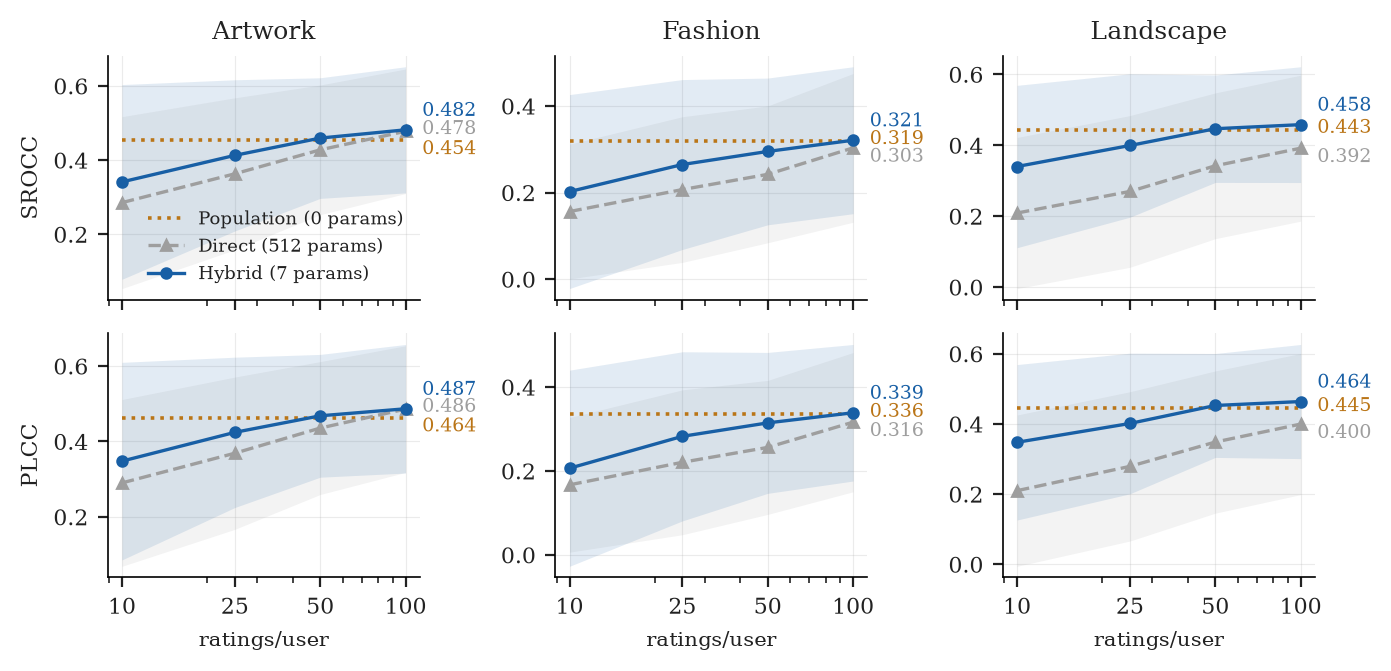
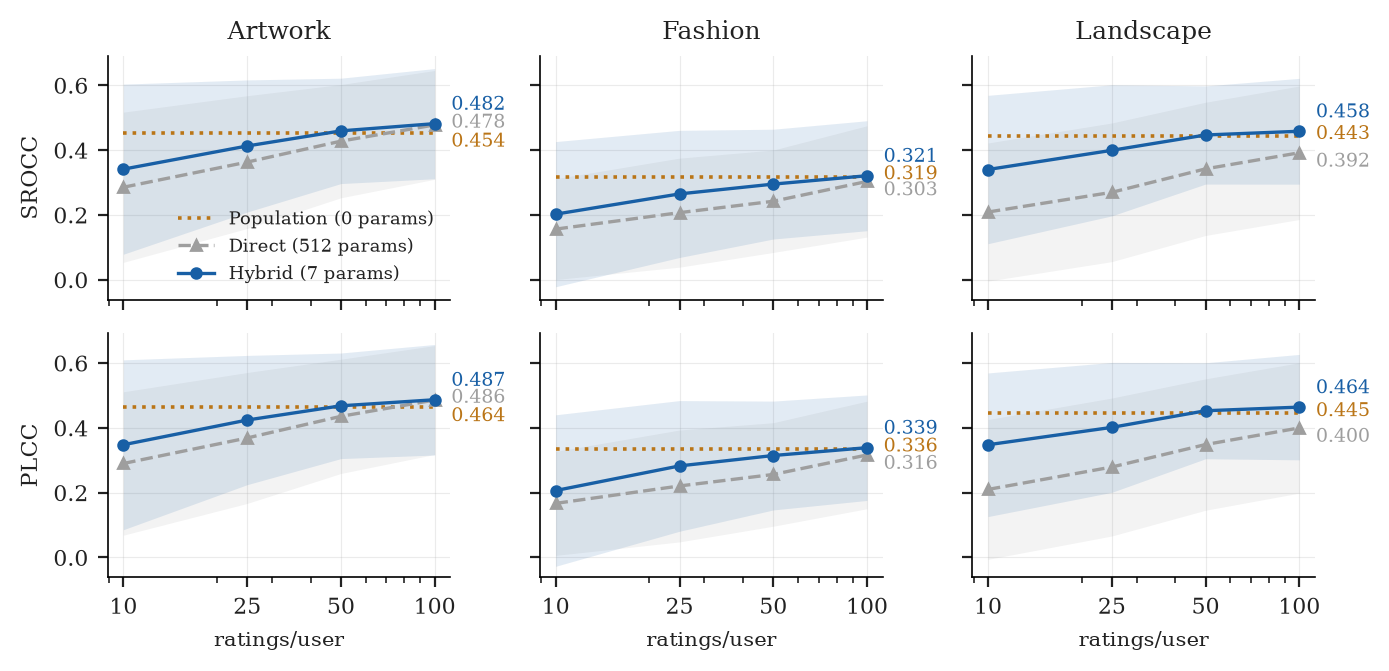
fix: read fine-tuned CLIP features after the projection, and align Fig. 2 axes
The frozen baseline reads features from CLIPModel.get_image_features(), which
is visual_projection(pooler_output) and is 512-dim. The fine-tuned variant was
built on CLIPVisionModel and read pooler_output directly, so it produced
768-dim features. The backbone comparison was therefore varying feature width
at the same time as fine-tuning, in the one condition where the paper's
conclusion flips, with no way to attribute the flip to either. Keep and
fine-tune the projection, and read features after it, so the two CLIP
conditions differ in fine-tuning alone.

This invalidates the existing clip_ftpf_overall_v4_fold*.npz features, which
have to be regenerated on a GPU before the backbone table is rerun.

Fig. 2's per-domain panels had free y-limits, which made fashion look closer
to the other two domains than it is; share the y axis across all six.

Also drops src/utils/tables.py, which nothing has imported since the
experiments started writing their own summary CSVs.

diff --git a/src/data/finetune_clip_perfold.py b/src/data/finetune_clip_perfold.py
@@ -5,6 +5,14 @@ Fine-tunes CLIP's vision tower to predict the population-mean target
 be used for personalized prediction. Run once per fold; produces
 clip_ftpf_{target}_v4_fold{k}.npz.
 
+*** features must come out of the same place as the frozen baseline ***
+extract_clip_features.py uses CLIPModel.get_image_features(), which is
+visual_projection(vision_model(px).pooler_output) and gives 512 dims. So the
+projection is kept and fine-tuned here too, and features are read after it.
+Reading pooler_output directly instead would give 768 dims, and then the
+backbone comparison would be varying the feature width at the same time as
+the fine-tuning, with no way to tell which one moved the result.
+
 Usage:
   python src/data/finetune_clip_perfold.py --fold 0 --target overall --v4 \
     --out clip_ftpf_overall_v4_fold0.npz --epochs 8 --batch_size 12
@@ -23,7 +31,7 @@ from transformers import CLIPImageProcessor
 
 from PIL import Image
 from torch.utils.data import Dataset
-from transformers import CLIPVisionModel
+from transformers import CLIPModel
 
 IMG_EXTS = {".jpg", ".jpeg", ".png", ".webp", ".bmp"}
 EMO9 = ["Like", "Beautiful", "Distasteful", "Impressed", "Intellectually",
@@ -61,16 +69,22 @@ class ImgDS(Dataset):
 
 
 class CLIPRegressor(nn.Module):
-    """CLIP Vision model with a linear head on top for regression."""
+    """CLIP vision tower + its projection, with a linear head for regression.
+
+    feat is taken after visual_projection, so it is the same 512-dim space
+    CLIPModel.get_image_features() returns and the frozen baseline uses.
+    """
     def __init__(self, out_dim):
         super().__init__()
-        self.vision = CLIPVisionModel.from_pretrained("openai/clip-vit-base-patch16")
-        h = self.vision.config.hidden_size
-        self.head = nn.Linear(h, out_dim)
+        clip = CLIPModel.from_pretrained("openai/clip-vit-base-patch16")
+        self.vision = clip.vision_model
+        self.visual_projection = clip.visual_projection      # 768 -> 512
+        self.feat_dim = clip.config.projection_dim           # 512
+        self.head = nn.Linear(self.feat_dim, out_dim)
 
     def forward(self, px, return_feat=False):
         out = self.vision(pixel_values=px)
-        feat = out.pooler_output
+        feat = self.visual_projection(out.pooler_output)
         if return_feat:
             return feat
         return self.head(feat)
@@ -194,7 +208,7 @@ def main():
     allpaths = [pth(s) for s in allsid]
     ds = ImgDS(allsid, allpaths, np.zeros((len(allsid), len(tgt_cols)), np.float32), proc)
     loader = DataLoader(ds, batch_size=args.batch_size, shuffle=False, num_workers=0)
-    feats = np.zeros((len(allsid), model.vision.config.hidden_size), np.float32)
+    feats = np.zeros((len(allsid), model.feat_dim), np.float32)
     model.eval()
     with torch.no_grad():
         for px, _, idxb in tqdm(loader, desc=f"f{args.fold} extract"):

diff --git a/src/utils/fig_efficiency.py b/src/utils/fig_efficiency.py
@@ -77,7 +77,9 @@ def run(cfg, err: str = "sd", domain_split: bool = False):
     if domain_split:
         domains = ["art", "fashion", "landscape"]
         titles = ["Artwork", "Fashion", "Landscape"]
-        fig, axes = plt.subplots(2, 3, figsize=(7.0, 3.4), sharex=True)
+        # sharey too: with free y-limits fashion looks much closer to the
+        # other domains than it is, which is the opposite of the point
+        fig, axes = plt.subplots(2, 3, figsize=(7.0, 3.4), sharex=True, sharey=True)
         for col, (dom, title) in enumerate(zip(domains, titles)):
             plot_panel(axes[0, col], df, "srocc", n_list, err, domain=dom, annotate_crossover=True)
             axes[0, col].set_title(title, fontsize=9)
